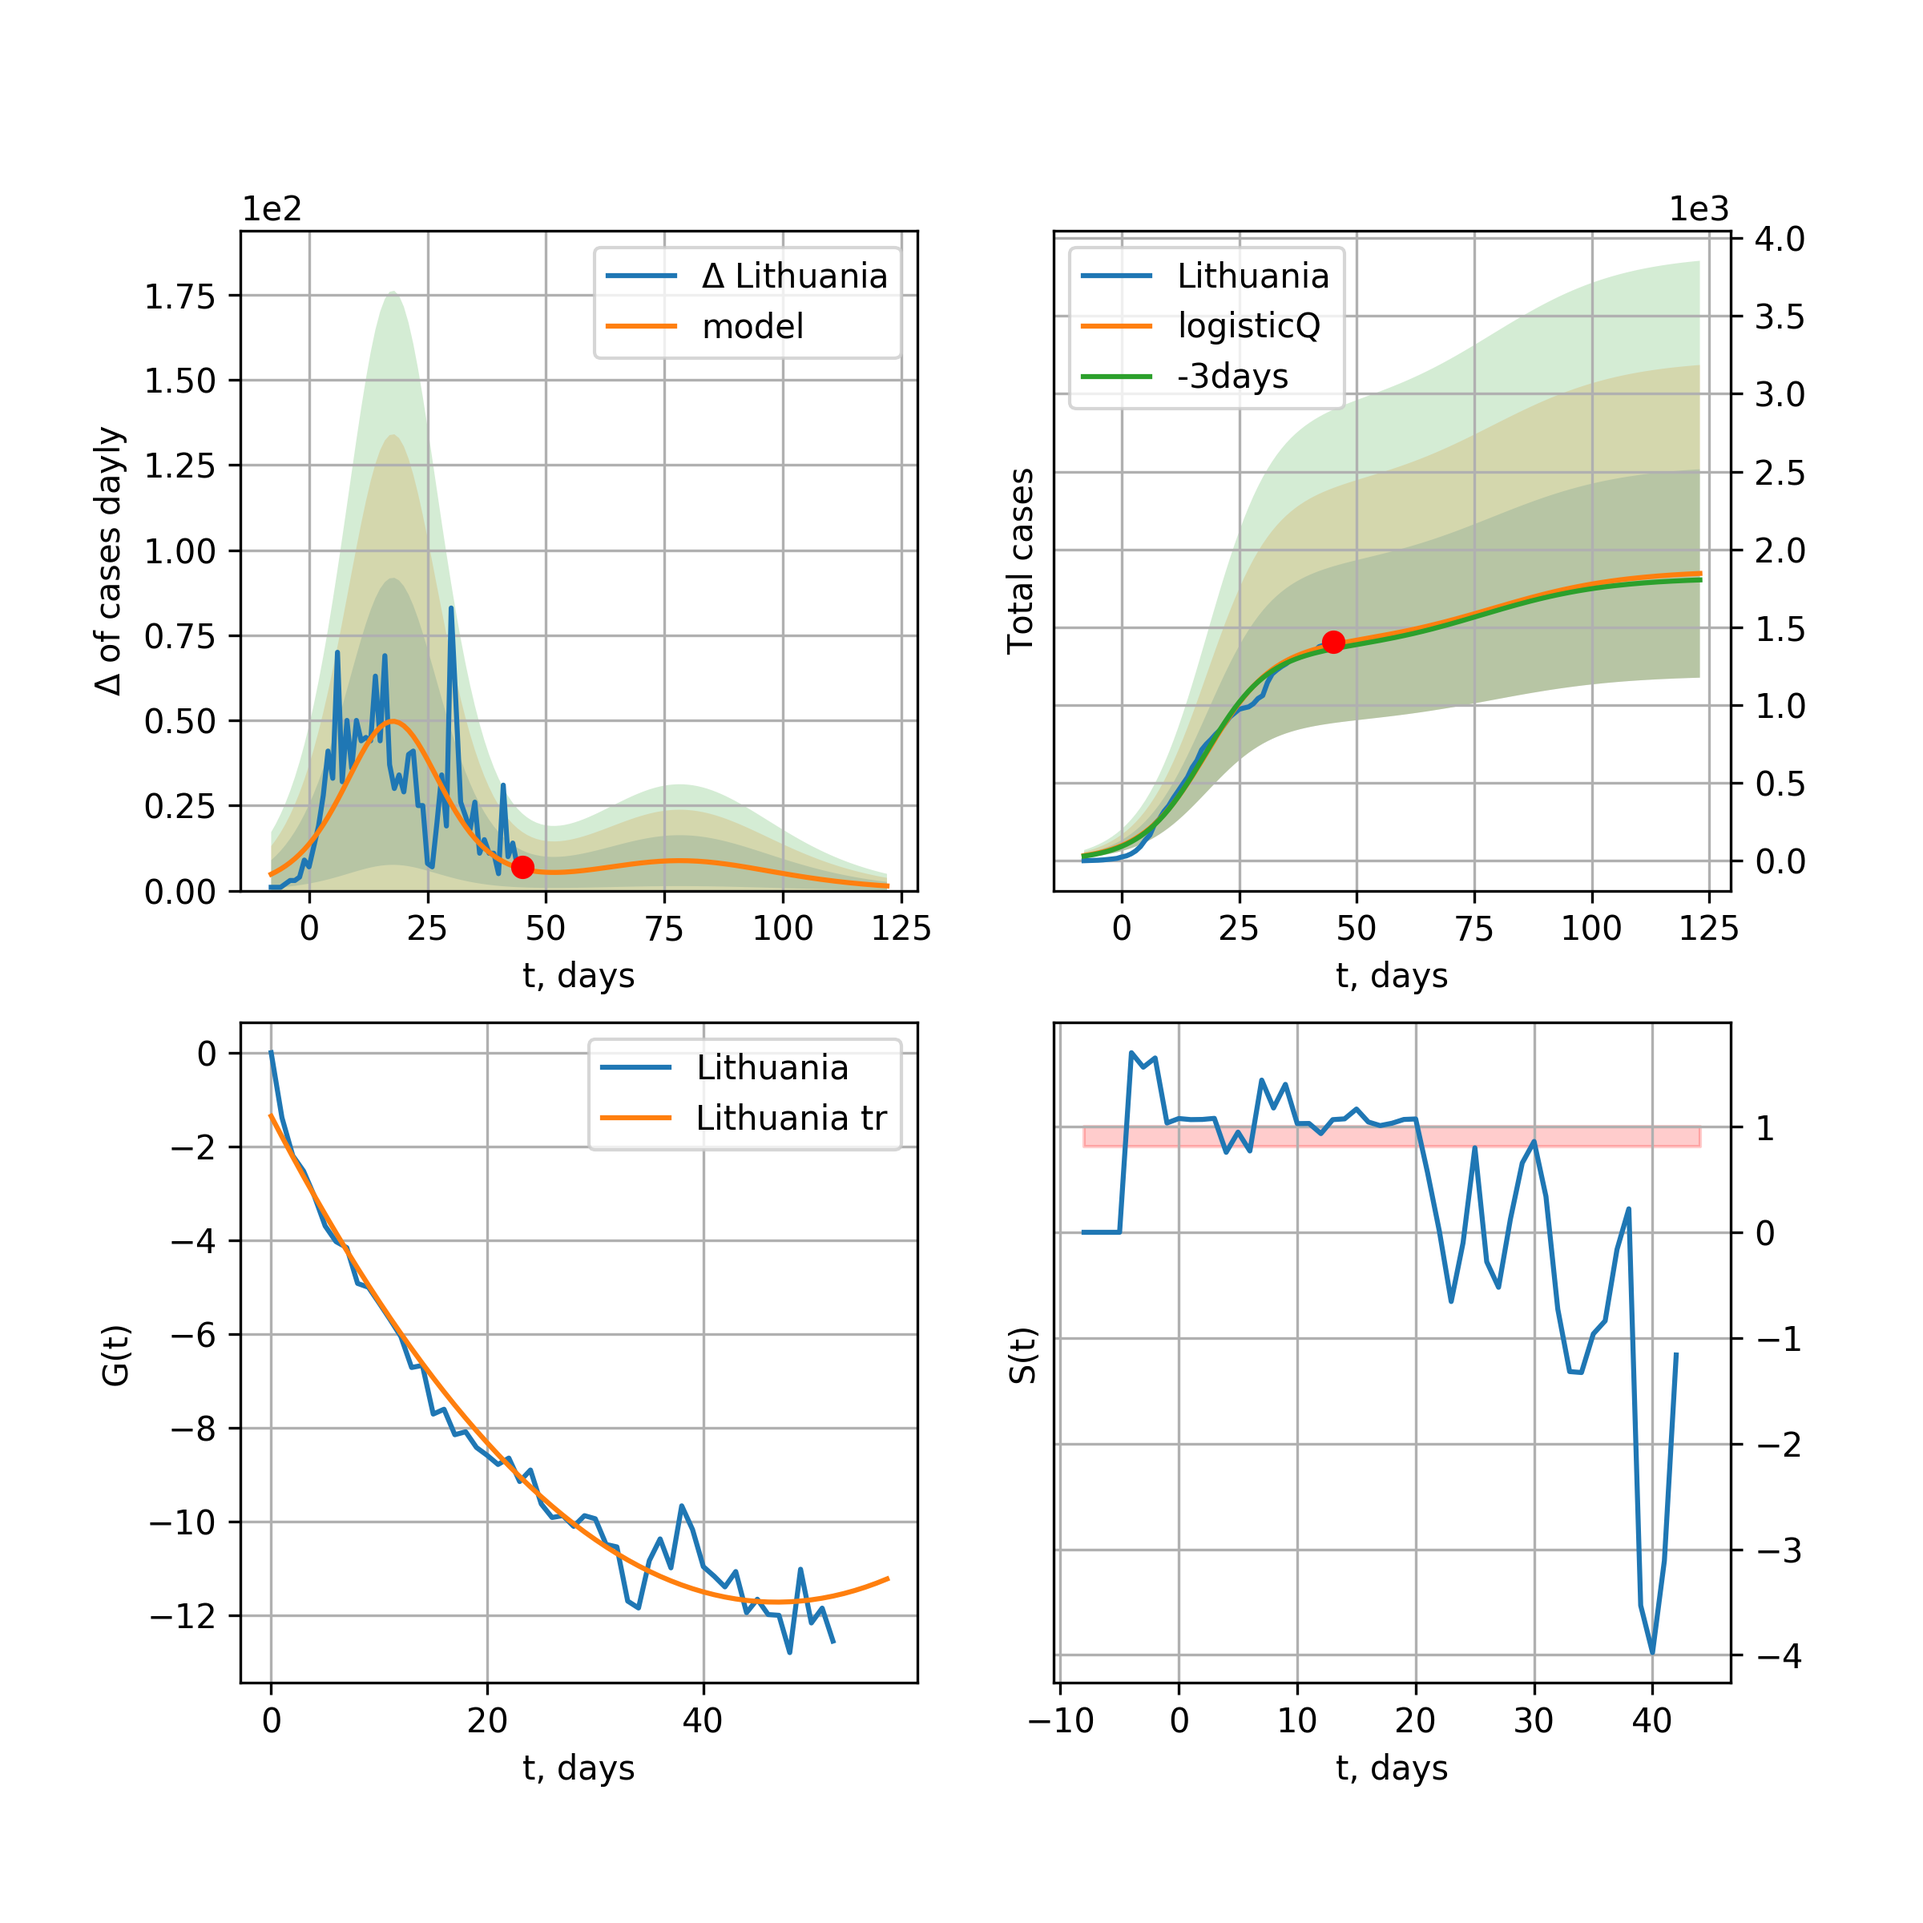
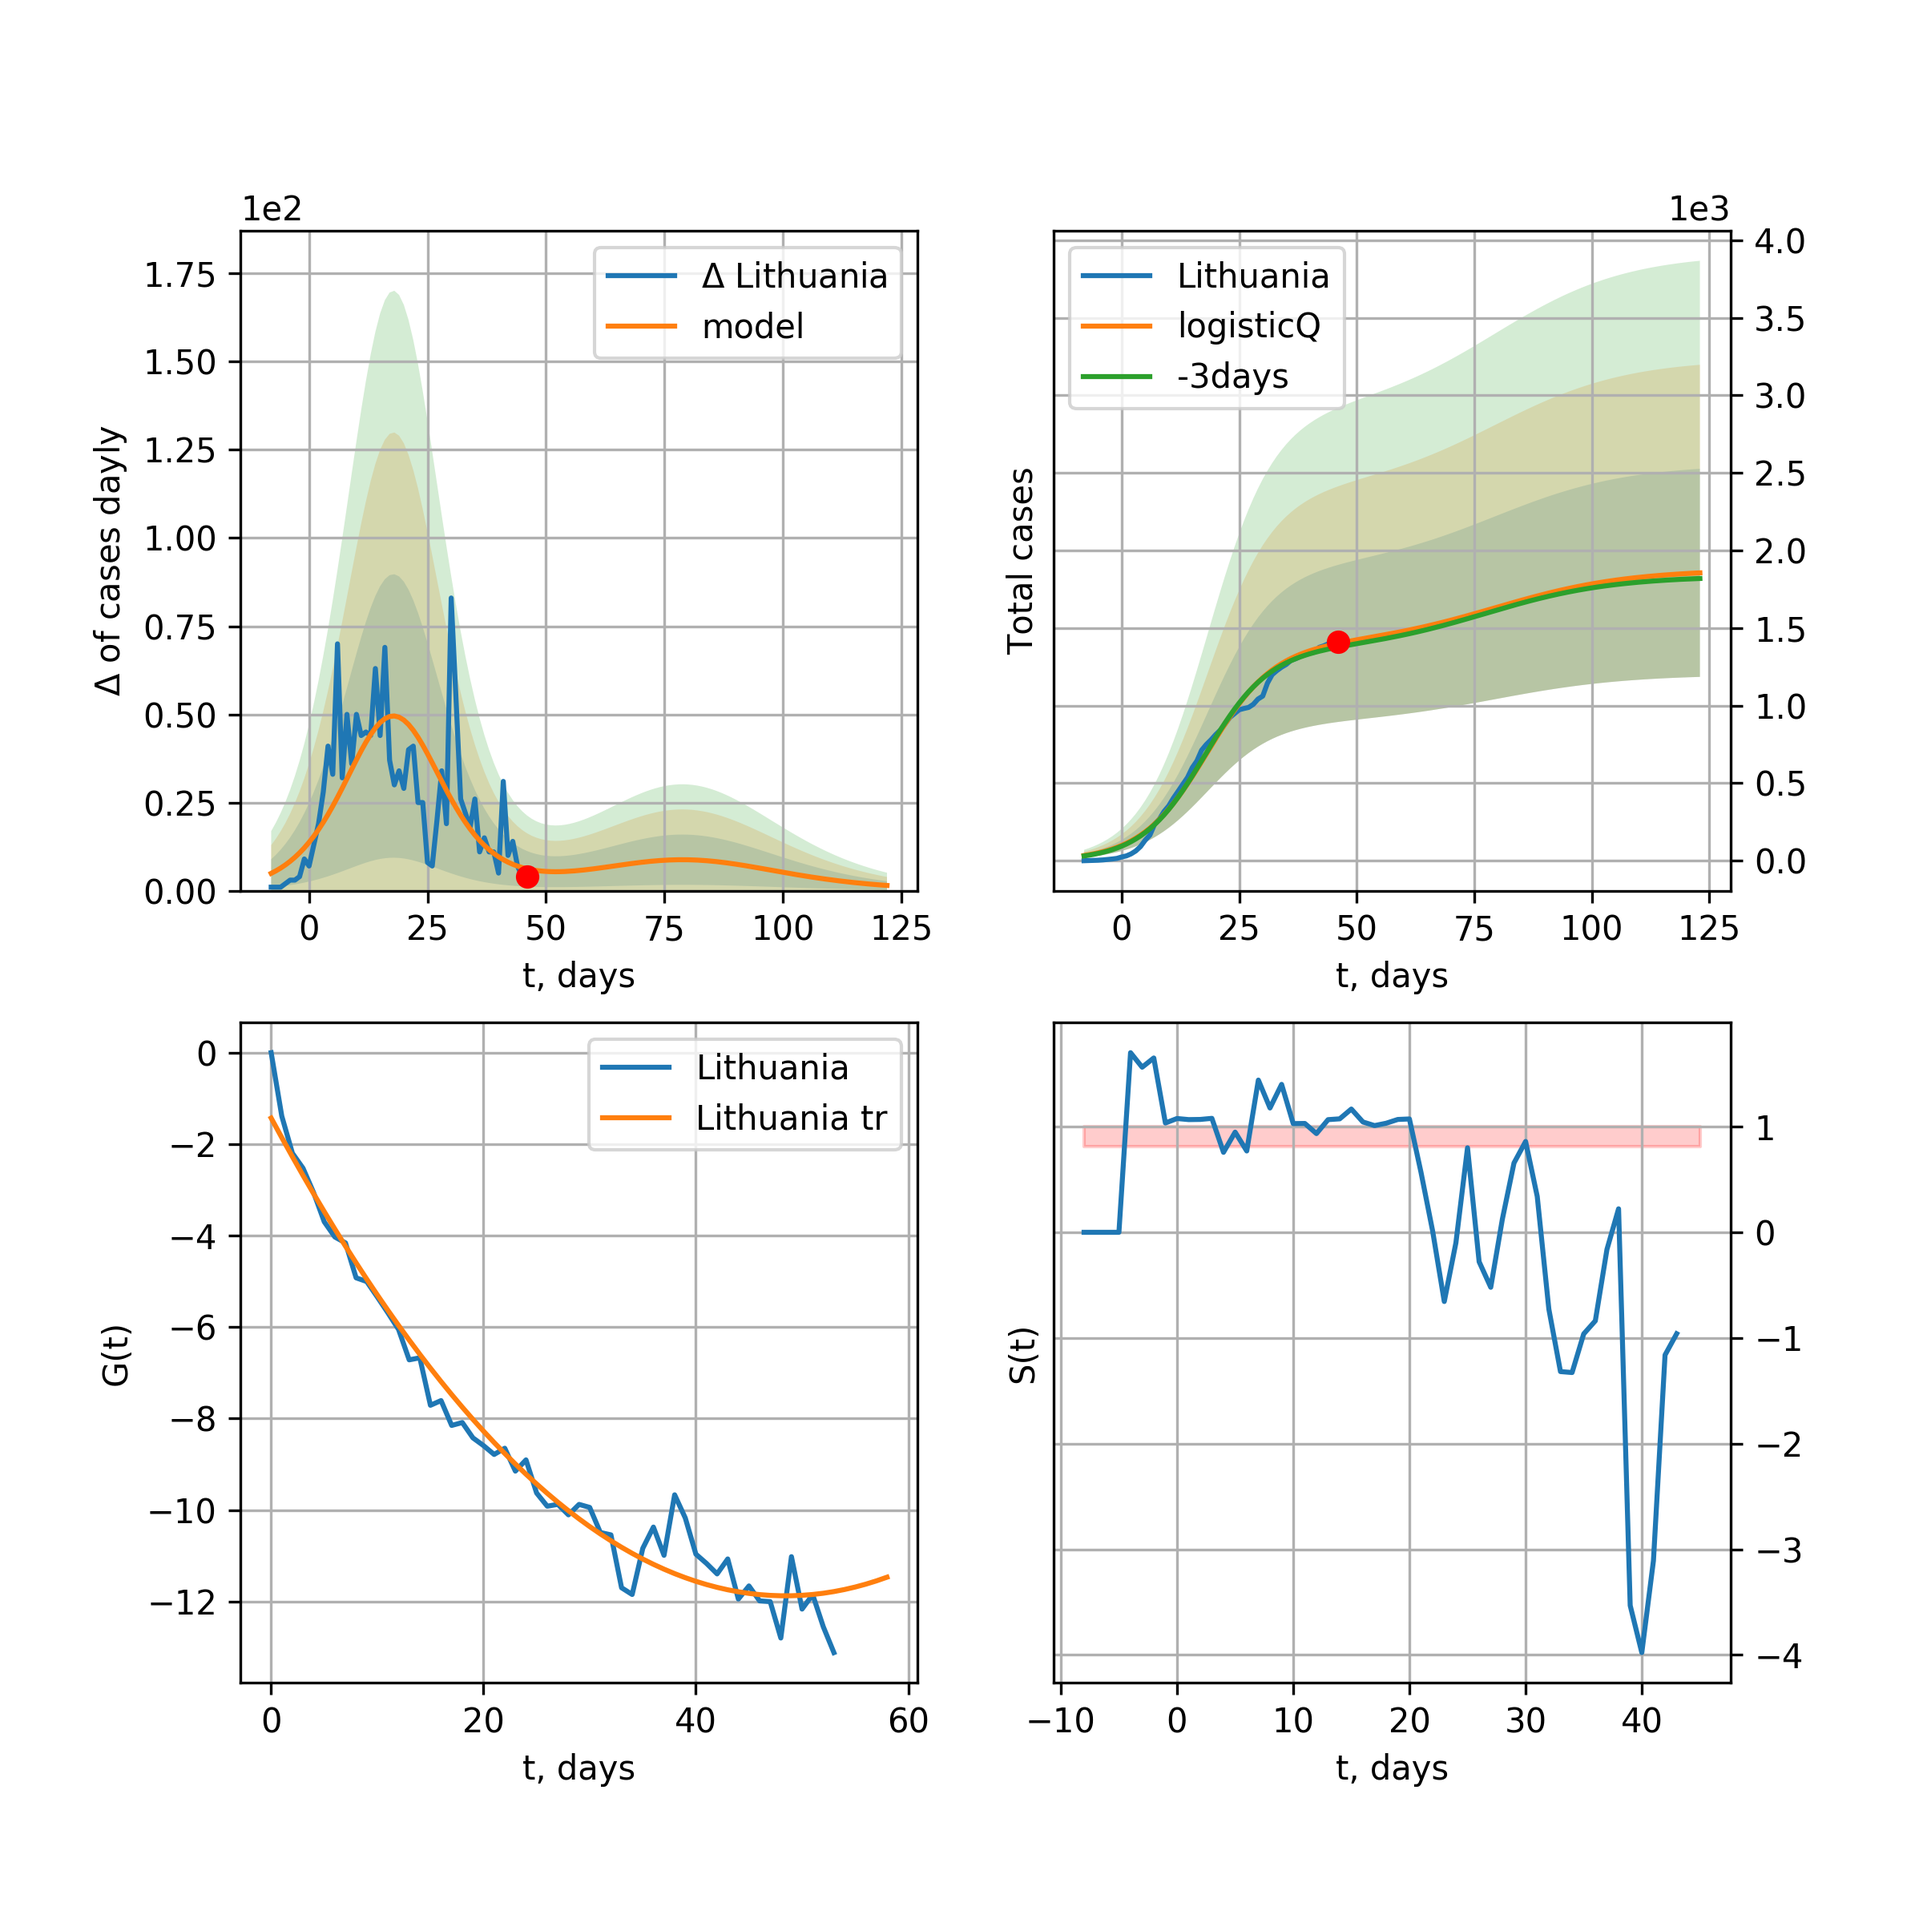
Lithuania 2020-05-02

diff --git a/_site/index.html b/_site/index.html
@@ -18,7 +18,7 @@
 {"description":"Model, code, results","@type":"WebSite","name":"Multi-logistic model of COVID-19 dynamics","url":"http://localhost:4000/","headline":"Multi-logistic model of COVID-19 dynamics","@context":"http://schema.org"}</script>
 <!-- End Jekyll SEO tag -->
 
-    <link rel="stylesheet" href="/assets/css/style.css?v=6c12313f1e08d93b991e5d747e028ff2dddfcde3">
+    <link rel="stylesheet" href="/assets/css/style.css?v=2c09314df17e0345f12bbc808b364ac45c7ccfcb">
     <script src="https://code.jquery.com/jquery-1.12.4.min.js" integrity="sha256-ZosEbRLbNQzLpnKIkEdrPv7lOy9C27hHQ+Xp8a4MxAQ=" crossorigin="anonymous"></script>
     <script src="/assets/js/respond.js"></script>
     <!--[if lt IE 9]>
@@ -1312,19 +1312,19 @@ trend coefficient of determination: 0.903698 <br />
     <br />
     <img src="pictures/covidcasesLithuania35_Q.png" alt="hi" class="inline"/><br /> 
 
-      Lithuania data at: 2020-05-01<br />
-+3 day model MAPE: 0.019924<br />
+      Lithuania data at: 2020-05-02<br />
++3 day model MAPE: 0.017466<br />
 model: logisticQ<br />
-coeffs: [ 1.37716912e+03  9.74833489e-07  1.81118828e+01 -1.47020481e+05]<br />
+coeffs: [ 1.38563065e+03  9.38888758e-07  1.82396902e+01 -1.51084520e+05]<br />
 S.Korea scenario coeffs: [0.35416971, 0.02606324, 4.35859408, 19.30413219]<br />
-rational stdev: 0.362844<br />
-forecast at the end of period: +78 days<br />
+rational stdev: 0.361430<br />
+forecast at the end of period: +77 days<br />
 	 deltaDaycases: 1<br />
-	 total cases: 1845 ± 669<br />
-	 total death: 59 ± 64<br />
-trend coefficient of determination: 0.972390 <br />
- intercept_: -1.354285813614327 <br />
- coeffs_: [ 0.         -0.44313738  0.00473604]<br />
+	 total cases: 1855 ± 670<br />
+	 total death: 60 ± 65<br />
+trend coefficient of determination: 0.969650 <br />
+ intercept_: -1.4296975819855833 <br />
+ coeffs_: [ 0.         -0.43124353  0.00445141]<br />
           <br /> 
     
     Latvia

diff --git a/_site/404.html b/_site/404.html
@@ -18,7 +18,7 @@
 {"description":"Model, code, results","@type":"WebPage","url":"http://localhost:4000/404.html","headline":"Multi-logistic model of COVID-19 dynamics","@context":"http://schema.org"}</script>
 <!-- End Jekyll SEO tag -->
 
-    <link rel="stylesheet" href="/assets/css/style.css?v=6c12313f1e08d93b991e5d747e028ff2dddfcde3">
+    <link rel="stylesheet" href="/assets/css/style.css?v=2c09314df17e0345f12bbc808b364ac45c7ccfcb">
     <script src="https://code.jquery.com/jquery-1.12.4.min.js" integrity="sha256-ZosEbRLbNQzLpnKIkEdrPv7lOy9C27hHQ+Xp8a4MxAQ=" crossorigin="anonymous"></script>
     <script src="/assets/js/respond.js"></script>
     <!--[if lt IE 9]>
